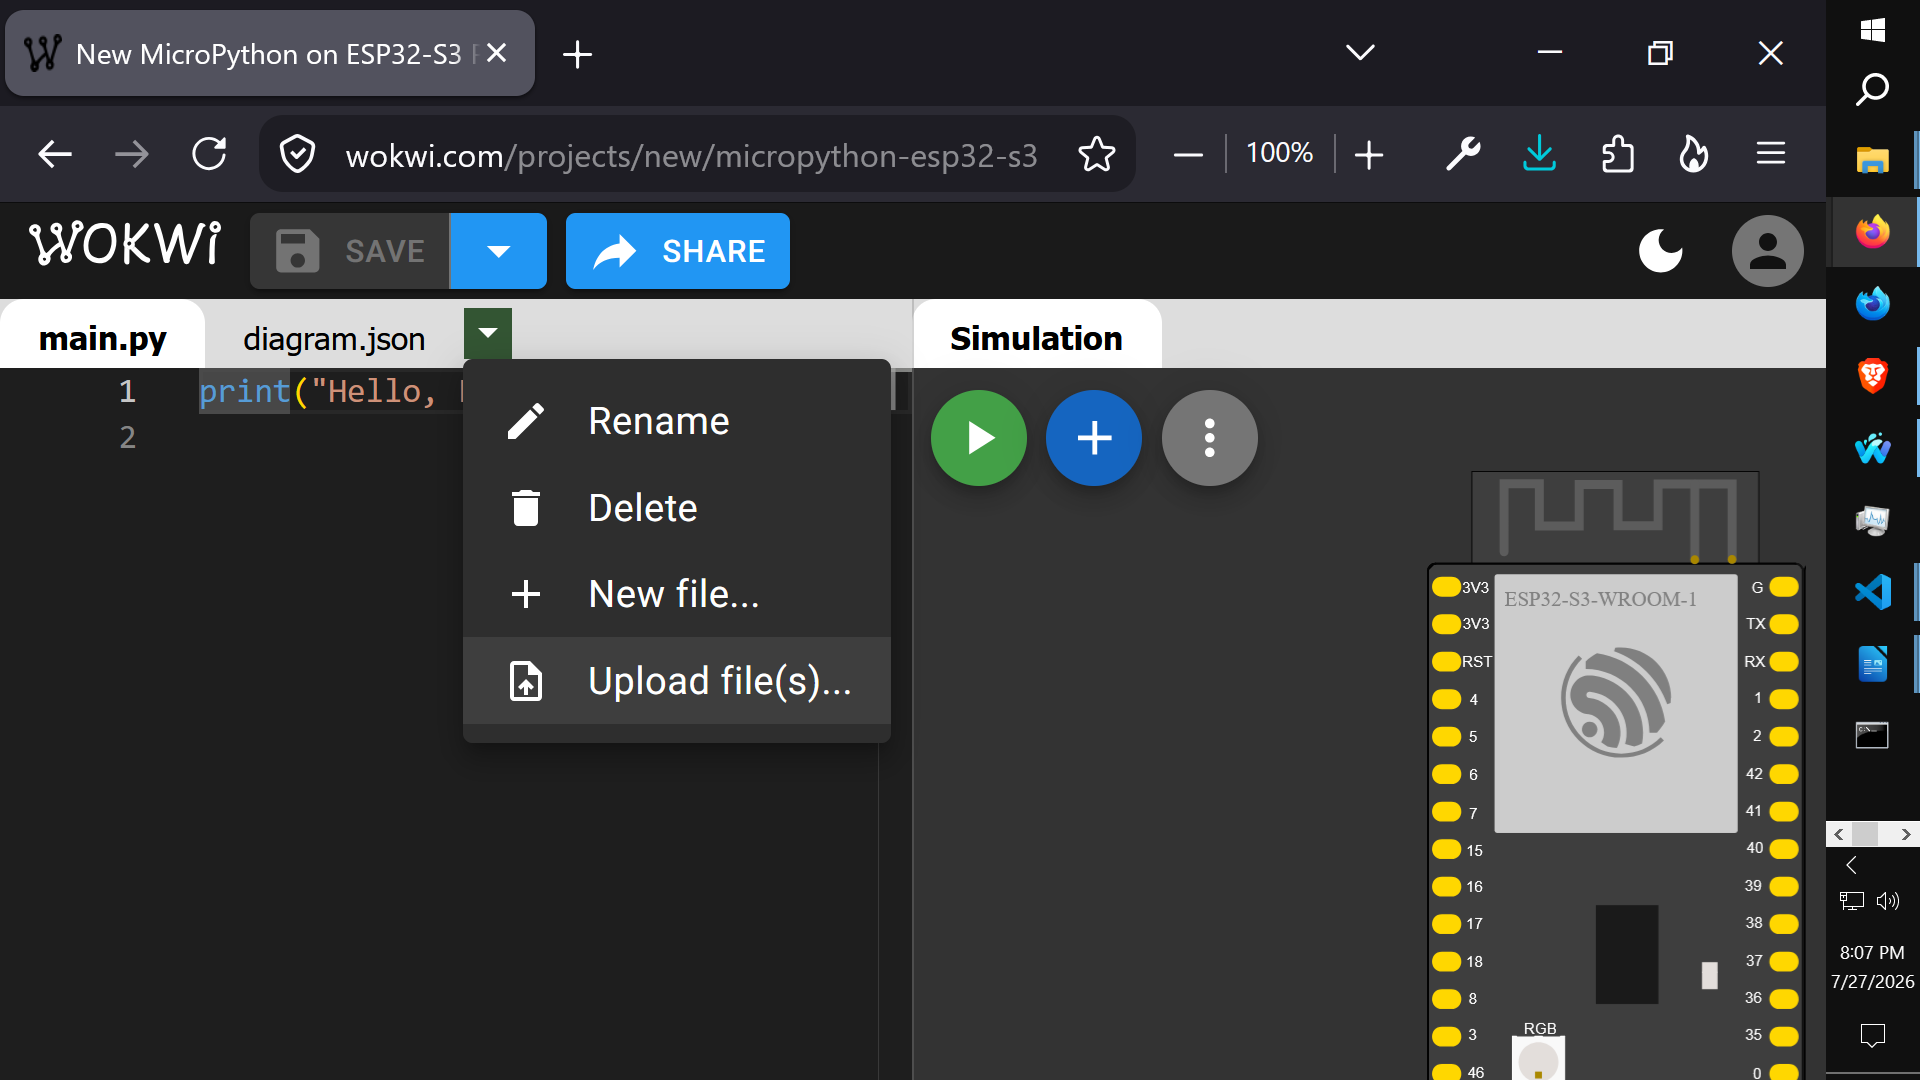
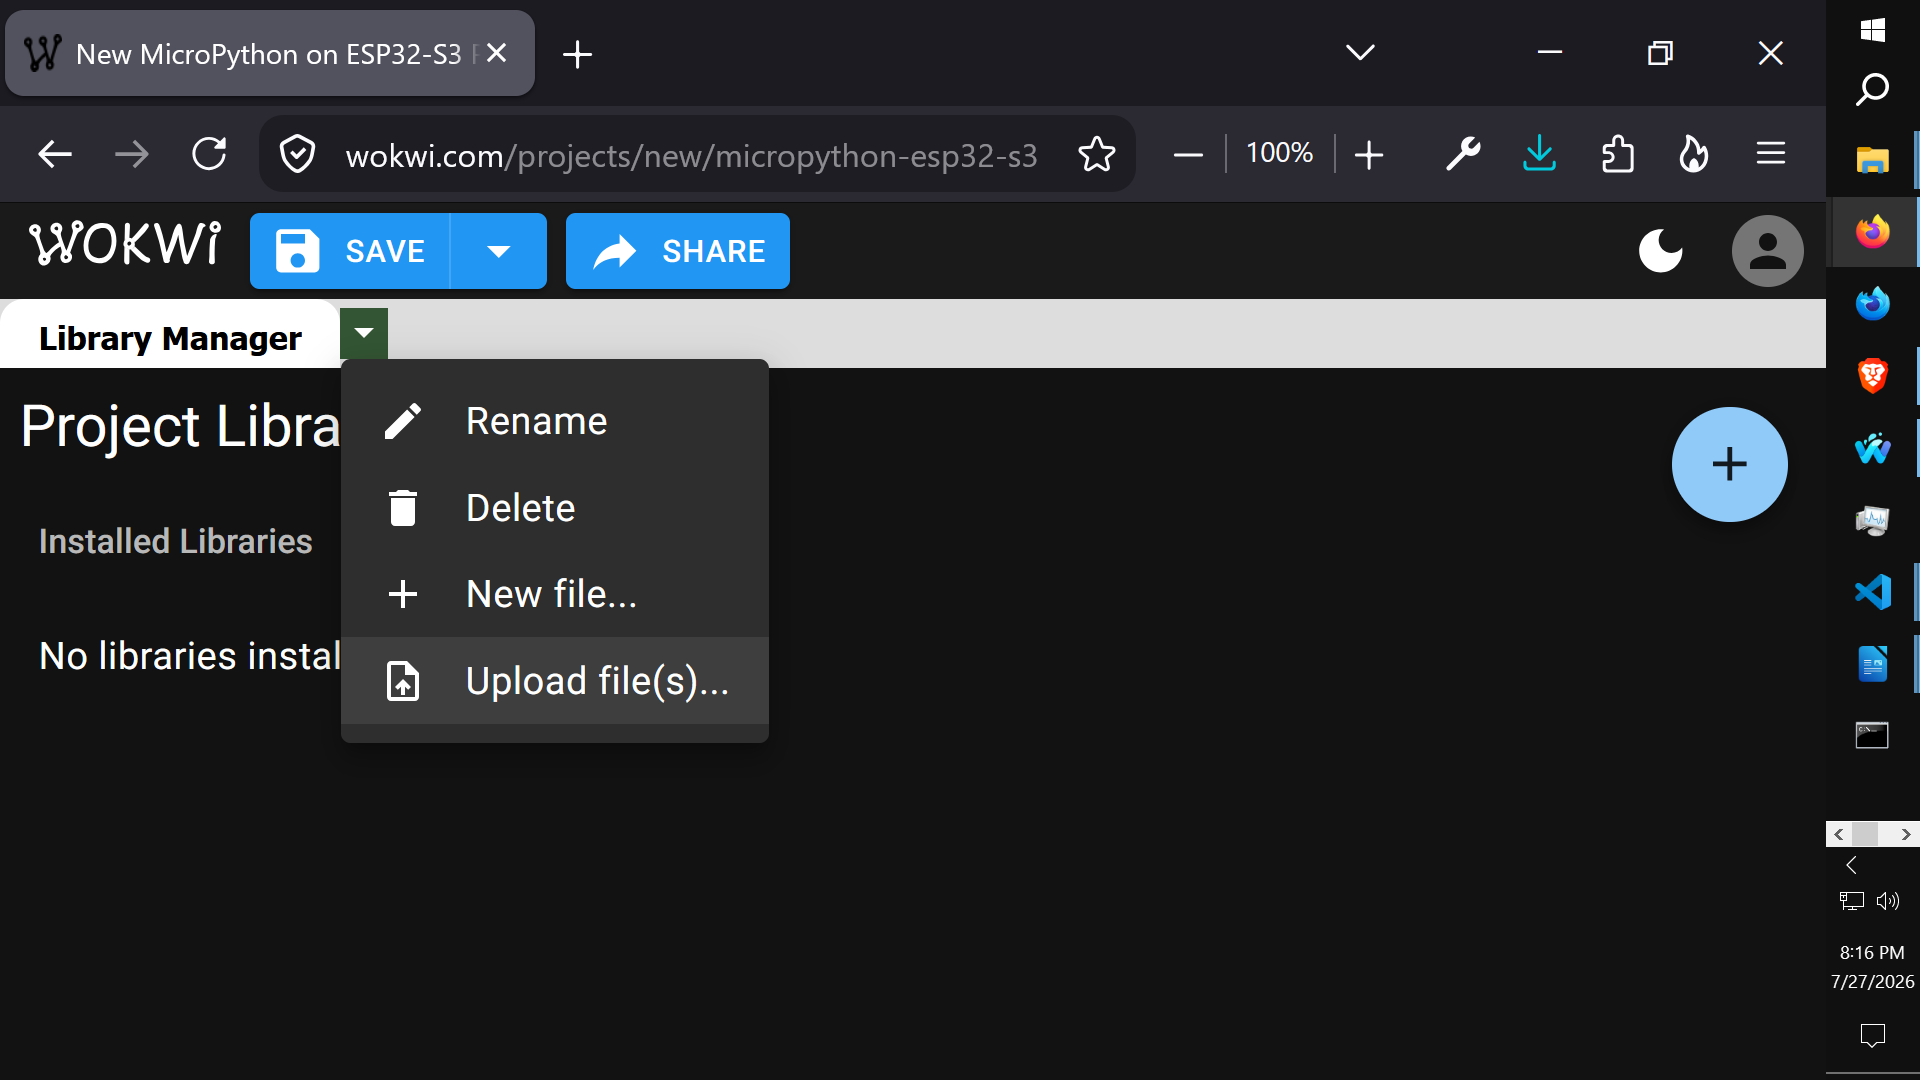
update

diff --git a/README.md b/README.md
@@ -11,7 +11,17 @@ Upload the .json and .py files to simulate the projects.
 
 ## [Upload_File(s)](src/tutorials/upload_file(s))
 
+## Delete diagram.json
+![Delete diagram.json](src/tutorials/upload_file(s)/delete_diagram.webp)
+
+## Delete main.py
+![Delete main.py](src/tutorials/upload_file(s)/delete_main.webp)
+
+## Upload Files
 ![Upload_File(s)](src/tutorials/upload_file(s)/upload_file(s).webp)
+
+## Upload diagram.json and main.py files
+![Upload diagram and main files](src/tutorials/upload_file(s)/upload_diagram_main_files.webp)
 
 ---
 
